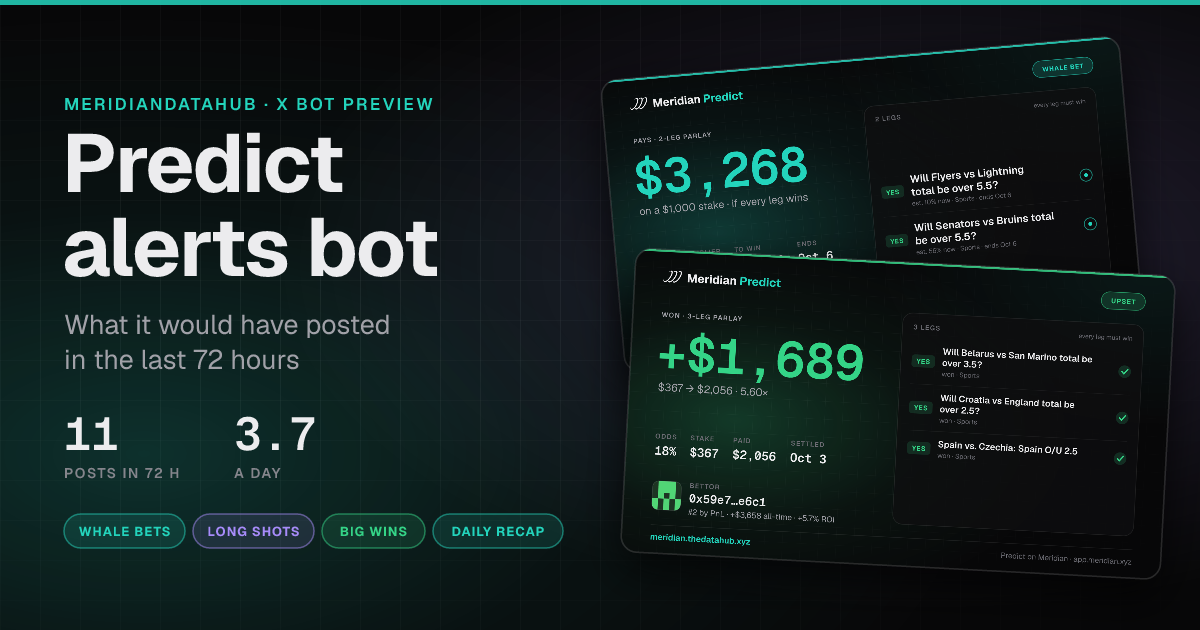
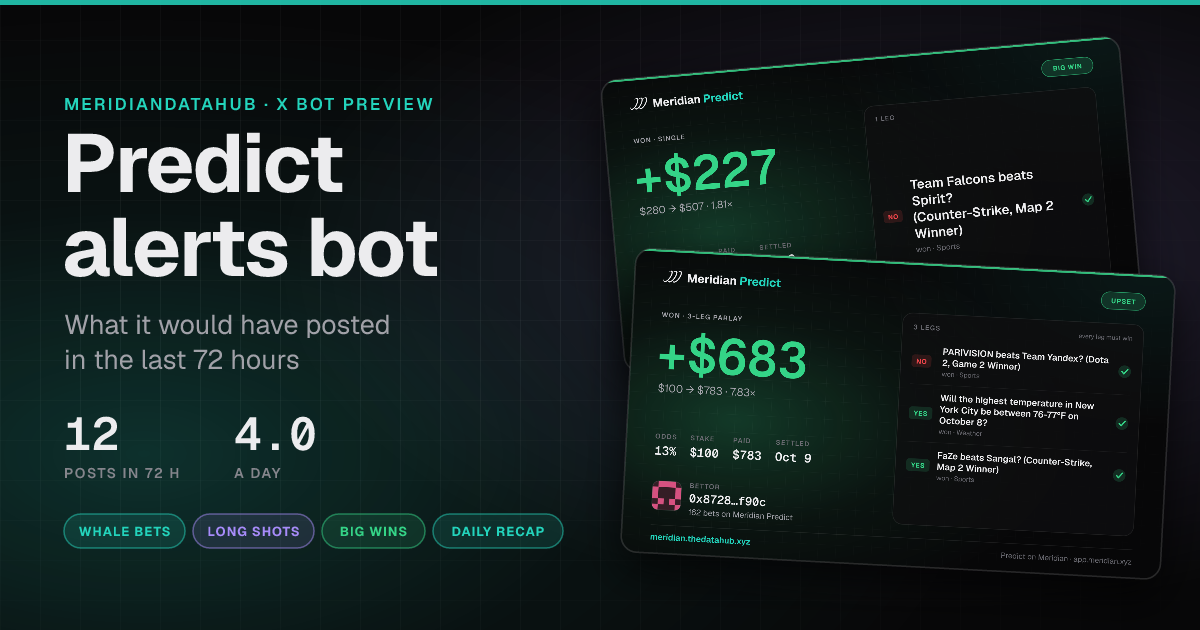
X bot preview page: the PnL-first rules
Rebuilt from a fresh 72-hour preview under the bot's new rules: a proven winner has $1,000+ all-time over 10+ decided
bets at 5%+ ROI (the luck tier no longer qualifies on its own), and a bettor's record (rank, PnL) shows only from
$1,000; smaller winners read as their bet count.

diff --git a/x-bot/index.html b/x-bot/index.html
@@ -4,23 +4,23 @@
 <meta charset="utf-8">
 <meta name="viewport" content="width=device-width, initial-scale=1">
 <title>Predict alerts bot · 72-hour preview · MeridianDataHub</title>
-<meta name="description" content="11 posts in 72 hours, replayed on live Meridian Predict data: whale bets, long shots, big wins, result replies and the daily recap, each with its card. Nothing was posted.">
+<meta name="description" content="12 posts in 72 hours, replayed on live Meridian Predict data: whale bets, long shots, big wins, result replies and the daily recap, each with its card. Nothing was posted.">
 <meta name="robots" content="noindex">
 <link rel="canonical" href="https://meridian.thedatahub.xyz/x-bot/">
 <meta property="og:type" content="website">
 <meta property="og:site_name" content="MeridianDataHub">
 <meta property="og:url" content="https://meridian.thedatahub.xyz/x-bot/">
 <meta property="og:title" content="Predict alerts bot · 72-hour preview">
-<meta property="og:description" content="11 posts in 72 hours, replayed on live Meridian Predict data: whale bets, long shots, big wins, result replies and the daily recap, each with its card. Nothing was posted.">
-<meta property="og:image" content="https://meridian.thedatahub.xyz/x-bot/cover.png?v=02d71a287f">
+<meta property="og:description" content="12 posts in 72 hours, replayed on live Meridian Predict data: whale bets, long shots, big wins, result replies and the daily recap, each with its card. Nothing was posted.">
+<meta property="og:image" content="https://meridian.thedatahub.xyz/x-bot/cover.png?v=f5f85cb6a5">
 <meta property="og:image:type" content="image/png">
 <meta property="og:image:width" content="1200">
 <meta property="og:image:height" content="630">
 <meta property="og:image:alt" content="Predict alerts bot: what it would have posted in the last 72 hours, with two of its cards">
 <meta name="twitter:card" content="summary_large_image">
 <meta name="twitter:title" content="Predict alerts bot · 72-hour preview">
-<meta name="twitter:description" content="11 posts in 72 hours, replayed on live Meridian Predict data: whale bets, long shots, big wins, result replies and the daily recap, each with its card. Nothing was posted.">
-<meta name="twitter:image" content="https://meridian.thedatahub.xyz/x-bot/cover.png?v=02d71a287f">
+<meta name="twitter:description" content="12 posts in 72 hours, replayed on live Meridian Predict data: whale bets, long shots, big wins, result replies and the daily recap, each with its card. Nothing was posted.">
+<meta name="twitter:image" content="https://meridian.thedatahub.xyz/x-bot/cover.png?v=f5f85cb6a5">
 <meta name="twitter:image:alt" content="Predict alerts bot: what it would have posted in the last 72 hours, with two of its cards">
 <meta name="color-scheme" content="dark">
 <meta name="theme-color" content="#23d4bc">
@@ -35,207 +35,204 @@
     <h1>Predict alerts bot</h1>
     <p class="lead">Every post it would have made over the last 72 hours, replayed with its default rules on live Meridian Predict data: whale bets, long shots, proven winners, big wins and cash-outs, result replies and a daily recap, each with its card. Nothing here was posted.</p>
     <ul class="stats">
-      <li><b>11</b><span>posts in 72 h</span></li>
-      <li><b>3.7</b><span>a day</span></li>
-      <li><b>≈ $1.83</b><span>on X (pay-per-use)</span></li>
-      <li><b>17</b><span>held back by the limits</span></li>
+      <li><b>12</b><span>posts in 72 h</span></li>
+      <li><b>4.0</b><span>a day</span></li>
+      <li><b>≈ $1.66</b><span>on X (pay-per-use)</span></li>
+      <li><b>0</b><span>held back by the limits</span></li>
     </ul>
   </section>
   <main class="feed" aria-label="Posts, newest first">
-<article class="post" id="post-202610061739">
+<article class="post" id="post-202610092029">
   <div class="av"><svg viewBox="0 0 40 40" aria-hidden="true"><rect width="40" height="40" rx="12" fill="var(--av-bg)"/><path d="M8 26h6l3-9 5 15 4-11 2 5h4" fill="none" stroke="var(--accent)" stroke-width="2.4" stroke-linecap="round" stroke-linejoin="round"/></svg></div>
   <div class="body">
-    <header><span class="name">Predict alerts</span><span class="bot">bot preview</span><time datetime="2026-10-06T17:39:00.369Z">Oct 6 · 17:39 UTC</time></header>
+    <header><span class="name">Predict alerts</span><span class="bot">bot preview</span><time datetime="2026-10-09T20:29:58.984Z">Oct 9 · 20:29 UTC</time></header>
+    <p class="replying">Reply to the <a href="#post-202610091801">proven winner alert of Oct 9 · 18:01 UTC</a></p>
+    <p class="text">✅ Cashed!
+
+$280 became $507 (+$227)</p>
+    <figure><img src="/x-bot/cards/01-won.png" alt="Card: the bet won on Meridian Predict." width="1600" height="900" loading="lazy" decoding="async"></figure>
+    <footer><span class="chip kind" data-kind="won">Result reply</span><span class="chip">36/280</span><span class="chip dim">score 90</span></footer>
+  </div>
+</article>
+<article class="post" id="post-202610091801">
+  <div class="av"><svg viewBox="0 0 40 40" aria-hidden="true"><rect width="40" height="40" rx="12" fill="var(--av-bg)"/><path d="M8 26h6l3-9 5 15 4-11 2 5h4" fill="none" stroke="var(--accent)" stroke-width="2.4" stroke-linecap="round" stroke-linejoin="round"/></svg></div>
+  <div class="body">
+    <header><span class="name">Predict alerts</span><span class="bot">bot preview</span><time datetime="2026-10-09T18:01:58.984Z">Oct 9 · 18:01 UTC</time></header>
+    
+    <p class="text">🎯 Sharp money on Meridian Predict
+
+0x5745…9805 · #4 by PnL · +$2,204 all-time · +7.4% ROI
+
+💰 Pays $507 if it hits (1.81×)
+NO · Team Falcons beats Spirit? (Counter-Strike, Map 2 Winner)
+$280 stake at 55%
+
+Copy the slip 👉 <a href="https://app.meridian.xyz/predict/p/0xd2983ace8d78e9a982997608278eff0c0881d4a952ca8940a27bad4ce6f0a06c?ref=BJ9Y51H9XB1L" rel="noopener">app.meridian.xyz/predict/p/0xd…</a></p>
+    <figure><img src="/x-bot/cards/02-proven.png" alt="Card: a proven winner's bet on Meridian Predict. Pays $507 if it hits, on a $280 stake at 55% odds. NO Team Falcons beats Spirit? (Counter-Strike, Map 2 Winner). Bettor 0x5745…9805." width="1600" height="900" loading="lazy" decoding="async"></figure>
+    <footer><span class="chip kind" data-kind="proven">Proven winner</span><span class="chip">247/280</span><span class="chip dim">score 112</span></footer>
+  </div>
+</article>
+<article class="post" id="post-202610090543">
+  <div class="av"><svg viewBox="0 0 40 40" aria-hidden="true"><rect width="40" height="40" rx="12" fill="var(--av-bg)"/><path d="M8 26h6l3-9 5 15 4-11 2 5h4" fill="none" stroke="var(--accent)" stroke-width="2.4" stroke-linecap="round" stroke-linejoin="round"/></svg></div>
+  <div class="body">
+    <header><span class="name">Predict alerts</span><span class="bot">bot preview</span><time datetime="2026-10-09T05:43:58.984Z">Oct 9 · 05:43 UTC</time></header>
+    
+    <p class="text">🔥 Upset! A 13% shot just paid 7.83×
+
+3-leg parlay: PARIVISION beats Team Yandex? (Dota 2, Game 2 Winner) + 2 more
+0x8728…f90c turned $100 into $783 (+$683)
+
+Make your call 👉 <a href="https://app.meridian.xyz/predict?ref=BJ9Y51H9XB1L" rel="noopener">app.meridian.xyz/predict</a></p>
+    <figure><img src="/x-bot/cards/03-bigwin.png" alt="Card: a big win on Meridian Predict. Won +$683: $100 paid $783 at 13% odds. NO PARIVISION beats Team Yandex? (Dota 2, Game 2 Winner); YES Will the highest temperature in New York City be between 76-77°F on October 8?; YES FaZe beats Sangal? (Counter-Strike, Map 2 Winner). Bettor 0x8728…f90c." width="1600" height="900" loading="lazy" decoding="async"></figure>
+    <footer><span class="chip kind" data-kind="upset">Upset</span><span class="chip">200/280</span><span class="chip dim">score 120</span></footer>
+  </div>
+</article>
+<article class="post" id="post-202610090041">
+  <div class="av"><svg viewBox="0 0 40 40" aria-hidden="true"><rect width="40" height="40" rx="12" fill="var(--av-bg)"/><path d="M8 26h6l3-9 5 15 4-11 2 5h4" fill="none" stroke="var(--accent)" stroke-width="2.4" stroke-linecap="round" stroke-linejoin="round"/></svg></div>
+  <div class="body">
+    <header><span class="name">Predict alerts</span><span class="bot">bot preview</span><time datetime="2026-10-09T00:41:58.984Z">Oct 9 · 00:41 UTC</time></header>
+    
+    <p class="text">📊 Meridian Predict · Thursday, Oct 8
+
+🎲 87 bets · $5,125 wagered
+👥 28 bettors
+
+Join in 👉 <a href="https://app.meridian.xyz/predict?ref=BJ9Y51H9XB1L" rel="noopener">app.meridian.xyz/predict</a></p>
+    <figure><img src="/x-bot/cards/04-recap.png" alt="Card: Meridian Predict on Thursday, Oct 8: 87 bets, $5,125 wagered by 28 bettors." width="1600" height="900" loading="lazy" decoding="async"></figure>
+    <footer><span class="chip kind" data-kind="recap">Daily recap</span><span class="chip">116/280</span><span class="chip dim">score 95</span></footer>
+  </div>
+</article>
+<article class="post" id="post-202610082249">
+  <div class="av"><svg viewBox="0 0 40 40" aria-hidden="true"><rect width="40" height="40" rx="12" fill="var(--av-bg)"/><path d="M8 26h6l3-9 5 15 4-11 2 5h4" fill="none" stroke="var(--accent)" stroke-width="2.4" stroke-linecap="round" stroke-linejoin="round"/></svg></div>
+  <div class="body">
+    <header><span class="name">Predict alerts</span><span class="bot">bot preview</span><time datetime="2026-10-08T22:49:58.984Z">Oct 8 · 22:49 UTC</time></header>
     
     <p class="text">🚀 Long shot on Meridian Predict
 
-💰 Pays $5,000 if it hits (23.81×)
-2-leg parlay: Will Croatia win on 2026-10-06? + 1 more
-$210 stake at 4.2%
+💰 Pays $3,367 if it hits (8.46×)
+4-leg parlay: Will Avalanche vs Flames total be over 5.5? + 3 more
+$398 stake at 12%
 
-0x090f…cd57 · 105 bets on Meridian Predict
+0x59e7…e6c1 · #8 by PnL · +$1,055 all-time · +1.6% ROI
 
-Copy the slip 👉 <a href="https://app.meridian.xyz/predict/p/0x892bde36738341342101d3412c42a1d216c6ae312a758bc52a8bc4ed0d5b6689?ref=BJ9Y51H9XB1L" rel="noopener">app.meridian.xyz/predict/p/0x8…</a></p>
-    <figure><img src="/x-bot/cards/01-longshot.png" alt="Card: a long shot on Meridian Predict. Pays $5,000 if it hits, on a $210 stake at 4.2% odds. YES Will Croatia win on 2026-10-06?; YES Will both Luxembourg and Bulgaria score?. Bettor 0x090f…cd57." width="1600" height="900" loading="lazy" decoding="async"></figure>
-    <footer><span class="chip kind" data-kind="longshot">Long shot</span><span class="chip">229/280</span><span class="chip dim">score 93</span></footer>
+Copy the slip 👉 <a href="https://app.meridian.xyz/predict/p/0xcfada6e9e2539669fa9a03e78e3dd8c5ba5bad3342d7c7b01598b532c0740a14?ref=BJ9Y51H9XB1L" rel="noopener">app.meridian.xyz/predict/p/0xc…</a></p>
+    <figure><img src="/x-bot/cards/05-longshot.png" alt="Card: a long shot on Meridian Predict. Pays $3,367 if it hits, on a $398 stake at 12% odds. YES Will Avalanche vs Flames total be over 5.5?; YES Will Canucks vs Hurricanes total be over 5.5?; YES Will Blackhawks vs Islanders total be over 5.5?; and 1 more leg. Bettor 0x59e7…e6c1." width="1600" height="900" loading="lazy" decoding="async"></figure>
+    <footer><span class="chip kind" data-kind="longshot">Long shot</span><span class="chip">251/280</span><span class="chip dim">score 101</span></footer>
   </div>
 </article>
-<article class="post" id="post-202610060041">
+<article class="post" id="post-202610082133">
   <div class="av"><svg viewBox="0 0 40 40" aria-hidden="true"><rect width="40" height="40" rx="12" fill="var(--av-bg)"/><path d="M8 26h6l3-9 5 15 4-11 2 5h4" fill="none" stroke="var(--accent)" stroke-width="2.4" stroke-linecap="round" stroke-linejoin="round"/></svg></div>
   <div class="body">
-    <header><span class="name">Predict alerts</span><span class="bot">bot preview</span><time datetime="2026-10-06T00:41:00.369Z">Oct 6 · 00:41 UTC</time></header>
-    
-    <p class="text">📊 Meridian Predict · Monday, Oct 5
-
-🎲 118 bets · $17,971 wagered
-👥 41 bettors
-🏆 Biggest win: +$3,096 (4.10×) by 0x59e7…e6c1
-
-Join in 👉 <a href="https://app.meridian.xyz/predict?ref=BJ9Y51H9XB1L" rel="noopener">app.meridian.xyz/predict</a></p>
-    <figure><img src="/x-bot/cards/02-recap.png" alt="Card: Meridian Predict on Monday, Oct 5: 118 bets, $17,971 wagered by 41 bettors." width="1600" height="900" loading="lazy" decoding="async"></figure>
-    <footer><span class="chip kind" data-kind="recap">Daily recap</span><span class="chip">164/280</span><span class="chip dim">score 95</span></footer>
-  </div>
-</article>
-<article class="post" id="post-202610052333">
-  <div class="av"><svg viewBox="0 0 40 40" aria-hidden="true"><rect width="40" height="40" rx="12" fill="var(--av-bg)"/><path d="M8 26h6l3-9 5 15 4-11 2 5h4" fill="none" stroke="var(--accent)" stroke-width="2.4" stroke-linecap="round" stroke-linejoin="round"/></svg></div>
-  <div class="body">
-    <header><span class="name">Predict alerts</span><span class="bot">bot preview</span><time datetime="2026-10-05T23:33:00.369Z">Oct 5 · 23:33 UTC</time></header>
-    
-    <p class="text">🐋 Big money just landed on Meridian Predict
-
-💰 Pays $3,268 if it hits (3.27×)
-2-leg parlay: Will Flyers vs Lightning total be over 5.5? + 1 more
-$1,000 stake at 31%
-
-0x59e7…e6c1 · #2 by PnL · +$3,658 all-time · +5.7% ROI
-
-Copy the slip 👉 <a href="https://app.meridian.xyz/predict/p/0x694653b93bdb89eef1382e96929658cd461d17e34c03e217d4e0edd932a1fd9e?ref=BJ9Y51H9XB1L" rel="noopener">app.meridian.xyz/predict/p/0x6…</a></p>
-    <figure><img src="/x-bot/cards/03-whale.png" alt="Card: a whale bet on Meridian Predict. Pays $3,268 if it hits, on a $1,000 stake at 31% odds. YES Will Flyers vs Lightning total be over 5.5?; YES Will Senators vs Bruins total be over 5.5?. Bettor 0x59e7…e6c1." width="1600" height="900" loading="lazy" decoding="async"></figure>
-    <footer><span class="chip kind" data-kind="whale">Whale bet</span><span class="chip">265/280</span><span class="chip dim">score 111</span></footer>
-  </div>
-</article>
-<article class="post" id="post-202610052307">
-  <div class="av"><svg viewBox="0 0 40 40" aria-hidden="true"><rect width="40" height="40" rx="12" fill="var(--av-bg)"/><path d="M8 26h6l3-9 5 15 4-11 2 5h4" fill="none" stroke="var(--accent)" stroke-width="2.4" stroke-linecap="round" stroke-linejoin="round"/></svg></div>
-  <div class="body">
-    <header><span class="name">Predict alerts</span><span class="bot">bot preview</span><time datetime="2026-10-05T23:07:00.369Z">Oct 5 · 23:07 UTC</time></header>
-    <p class="replying">Reply to the <a href="#post-202610051627">whale bet alert of Oct 5 · 16:27 UTC</a></p>
+    <header><span class="name">Predict alerts</span><span class="bot">bot preview</span><time datetime="2026-10-08T21:33:58.984Z">Oct 8 · 21:33 UTC</time></header>
+    <p class="replying">Reply to the <a href="#post-202610081903">proven winner alert of Oct 8 · 19:03 UTC</a></p>
     <p class="text">✅ It hit!
 
-$1,000 → $4,096 (+$3,096) · 4.10×</p>
-    <figure><img src="/x-bot/cards/04-won.png" alt="Card: the bet won on Meridian Predict." width="1600" height="900" loading="lazy" decoding="async"></figure>
-    <footer><span class="chip kind" data-kind="won">Result reply</span><span class="chip">46/280</span><span class="chip dim">score 90</span></footer>
+$300 → $405 (+$105) · 1.35×</p>
+    <figure><img src="/x-bot/cards/06-won.png" alt="Card: the bet won on Meridian Predict." width="1600" height="900" loading="lazy" decoding="async"></figure>
+    <footer><span class="chip kind" data-kind="won">Result reply</span><span class="chip">40/280</span><span class="chip dim">score 90</span></footer>
   </div>
 </article>
-<article class="post" id="post-202610051627">
+<article class="post" id="post-202610081903">
   <div class="av"><svg viewBox="0 0 40 40" aria-hidden="true"><rect width="40" height="40" rx="12" fill="var(--av-bg)"/><path d="M8 26h6l3-9 5 15 4-11 2 5h4" fill="none" stroke="var(--accent)" stroke-width="2.4" stroke-linecap="round" stroke-linejoin="round"/></svg></div>
   <div class="body">
-    <header><span class="name">Predict alerts</span><span class="bot">bot preview</span><time datetime="2026-10-05T16:27:00.369Z">Oct 5 · 16:27 UTC</time></header>
+    <header><span class="name">Predict alerts</span><span class="bot">bot preview</span><time datetime="2026-10-08T19:03:58.984Z">Oct 8 · 19:03 UTC</time></header>
     
-    <p class="text">🐋 Whale bet on Meridian Predict
+    <p class="text">🎯 One of Meridian Predict's best just bet
 
-💰 Pays $4,096 if it hits (4.10×)
-4-leg parlay: Will both Italy and Türkiye score? + 3 more
-$1,000 stake at 24%
+0x5745…9805 · #4 by PnL · +$2,204 all-time · +7.4% ROI
 
-0x59e7…e6c1 · #2 by PnL · +$3,658 all-time · +5.7% ROI
+💰 Pays $405 if it hits (1.35×)
+YES · FaZe beats Sangal? (Counter-Strike, Roman Imperium Cup Playoffs)
+$300 stake at 74%
 
-Copy the slip 👉 <a href="https://app.meridian.xyz/predict/p/0x261a62e76e4d7ec48c7f19d9b64a8dddf88f2de3057bf410600ede51ad011ef2?ref=BJ9Y51H9XB1L" rel="noopener">app.meridian.xyz/predict/p/0x2…</a></p>
-    <figure><img src="/x-bot/cards/05-whale.png" alt="Card: a whale bet on Meridian Predict. Pays $4,096 if it hits, on a $1,000 stake at 24% odds. YES Will both Italy and Türkiye score?; YES Will both France and Belgium score?; YES Will France vs Belgium total be over 2.5?; and 1 more leg. Bettor 0x59e7…e6c1." width="1600" height="900" loading="lazy" decoding="async"></figure>
-    <footer><span class="chip kind" data-kind="whale">Whale bet</span><span class="chip">244/280</span><span class="chip dim">score 111</span></footer>
+Copy the slip 👉 <a href="https://app.meridian.xyz/predict/p/0x072db8276aba512e223c448e70965c47b82b038df0cd23bea306515889a61a03?ref=BJ9Y51H9XB1L" rel="noopener">app.meridian.xyz/predict/p/0x0…</a></p>
+    <figure><img src="/x-bot/cards/07-proven.png" alt="Card: a proven winner's bet on Meridian Predict. Pays $405 if it hits, on a $300 stake at 74% odds. YES FaZe beats Sangal? (Counter-Strike, Roman Imperium Cup Playoffs). Bettor 0x5745…9805." width="1600" height="900" loading="lazy" decoding="async"></figure>
+    <footer><span class="chip kind" data-kind="proven">Proven winner</span><span class="chip">263/280</span><span class="chip dim">score 112</span></footer>
   </div>
 </article>
-<article class="post" id="post-202610042307">
+<article class="post" id="post-202610072139">
   <div class="av"><svg viewBox="0 0 40 40" aria-hidden="true"><rect width="40" height="40" rx="12" fill="var(--av-bg)"/><path d="M8 26h6l3-9 5 15 4-11 2 5h4" fill="none" stroke="var(--accent)" stroke-width="2.4" stroke-linecap="round" stroke-linejoin="round"/></svg></div>
   <div class="body">
-    <header><span class="name">Predict alerts</span><span class="bot">bot preview</span><time datetime="2026-10-04T23:07:00.369Z">Oct 4 · 23:07 UTC</time></header>
+    <header><span class="name">Predict alerts</span><span class="bot">bot preview</span><time datetime="2026-10-07T21:39:58.984Z">Oct 7 · 21:39 UTC</time></header>
     
     <p class="text">💰 Big win on Meridian Predict
 
-5-leg parlay: Will Netherlands vs Serbia total be over 2.5? + 4 more
-0x59e7…e6c1 turned $617 into $1,989 (+$1,372)
+2-leg parlay: Will total games be over 2.5? + 1 more
+0x5745…9805 turned $221 into $760 (+$539)
 
 Make your call 👉 <a href="https://app.meridian.xyz/predict?ref=BJ9Y51H9XB1L" rel="noopener">app.meridian.xyz/predict</a></p>
-    <figure><img src="/x-bot/cards/06-bigwin.png" alt="Card: a big win on Meridian Predict. Won +$1,372: $617 paid $1,989 at 31% odds. YES Will Netherlands vs Serbia total be over 2.5?; YES Republic of Ireland vs. Israel: Republic of Ireland O/U 0.5; YES Portugal vs. Norway: Portugal O/U 1.5; and 2 more legs. Bettor 0x59e7…e6c1." width="1600" height="900" loading="lazy" decoding="async"></figure>
-    <footer><span class="chip kind" data-kind="bigwin">Big win</span><span class="chip">190/280</span><span class="chip dim">score 114</span></footer>
+    <figure><img src="/x-bot/cards/08-bigwin.png" alt="Card: a big win on Meridian Predict. Won +$539: $221 paid $760 at 29% odds. YES Will total games be over 2.5?; YES PARIVISION beats Natus Vincere? (Counter-Strike, Map 2 Winner). Bettor 0x5745…9805." width="1600" height="900" loading="lazy" decoding="async"></figure>
+    <footer><span class="chip kind" data-kind="bigwin">Big win</span><span class="chip">170/280</span><span class="chip dim">score 108</span></footer>
   </div>
 </article>
-<article class="post" id="post-202610042109">
+<article class="post" id="post-202610071845">
   <div class="av"><svg viewBox="0 0 40 40" aria-hidden="true"><rect width="40" height="40" rx="12" fill="var(--av-bg)"/><path d="M8 26h6l3-9 5 15 4-11 2 5h4" fill="none" stroke="var(--accent)" stroke-width="2.4" stroke-linecap="round" stroke-linejoin="round"/></svg></div>
   <div class="body">
-    <header><span class="name">Predict alerts</span><span class="bot">bot preview</span><time datetime="2026-10-04T21:09:00.369Z">Oct 4 · 21:09 UTC</time></header>
-    <p class="replying">Reply to the <a href="#post-202610041939">long shot alert of Oct 4 · 19:39 UTC</a></p>
-    <p class="text">✅ The picks won, but 0x21a6…1565 had sold the tokens before the result: $1,372 for its 3 bets on these picks.</p>
-    
-    <footer><span class="chip kind" data-kind="won">Result reply</span><span class="chip">111/280</span><span class="chip dim">score 90</span></footer>
+    <header><span class="name">Predict alerts</span><span class="bot">bot preview</span><time datetime="2026-10-07T18:45:58.984Z">Oct 7 · 18:45 UTC</time></header>
+    <p class="replying">Reply to the <a href="#post-202610071641">proven winner alert of Oct 7 · 16:41 UTC</a></p>
+    <p class="text">✅ Cashed!
+
+$250 became $592 (+$342)</p>
+    <figure><img src="/x-bot/cards/09-won.png" alt="Card: the bet won on Meridian Predict." width="1600" height="900" loading="lazy" decoding="async"></figure>
+    <footer><span class="chip kind" data-kind="won">Result reply</span><span class="chip">36/280</span><span class="chip dim">score 90</span></footer>
   </div>
 </article>
-<article class="post" id="post-202610041939">
+<article class="post" id="post-202610071641">
   <div class="av"><svg viewBox="0 0 40 40" aria-hidden="true"><rect width="40" height="40" rx="12" fill="var(--av-bg)"/><path d="M8 26h6l3-9 5 15 4-11 2 5h4" fill="none" stroke="var(--accent)" stroke-width="2.4" stroke-linecap="round" stroke-linejoin="round"/></svg></div>
   <div class="body">
-    <header><span class="name">Predict alerts</span><span class="bot">bot preview</span><time datetime="2026-10-04T19:39:00.369Z">Oct 4 · 19:39 UTC</time></header>
+    <header><span class="name">Predict alerts</span><span class="bot">bot preview</span><time datetime="2026-10-07T16:41:58.984Z">Oct 7 · 16:41 UTC</time></header>
     
-    <p class="text">🚀 A 7.0% shot on Meridian Predict
+    <p class="text">🎯 Sharp money on Meridian Predict
 
-💰 Pays $3,571 if it hits (14.29×)
-YES · Rams beats Eagles?
-$250 stake
+0x5745…9805 · #4 by PnL · +$2,204 all-time · +7.4% ROI
 
-0x21a6…1565 · #7 by PnL · +$1,509 all-time · 70% win rate
+💰 Pays $592 if it hits (2.37×)
+YES · PARIVISION beats Natus Vincere? (Counter-Strike, ESL Pro League Group Stage)
+$250 stake at 42%
 
-Copy the slip 👉 <a href="https://app.meridian.xyz/predict/p/0x317e314fde023a43073ffa6a559403b4b2bebcb38f244f7d226d4806a91edc70?ref=BJ9Y51H9XB1L" rel="noopener">app.meridian.xyz/predict/p/0x3…</a></p>
-    <figure><img src="/x-bot/cards/08-longshot.png" alt="Card: a long shot on Meridian Predict. Pays $3,571 if it hits, on a $250 stake at 7.0% odds. YES Rams beats Eagles?. Bettor 0x21a6…1565." width="1600" height="900" loading="lazy" decoding="async"></figure>
-    <footer><span class="chip kind" data-kind="longshot">Long shot</span><span class="chip">208/280</span><span class="chip dim">score 99</span></footer>
+Copy the slip 👉 <a href="https://app.meridian.xyz/predict/p/0x469359a5045595711ecd357b3684318a95a9751984ccbb37be684fe7823d68cc?ref=BJ9Y51H9XB1L" rel="noopener">app.meridian.xyz/predict/p/0x4…</a></p>
+    <figure><img src="/x-bot/cards/10-proven.png" alt="Card: a proven winner's bet on Meridian Predict. Pays $592 if it hits, on a $250 stake at 42% odds. YES PARIVISION beats Natus Vincere? (Counter-Strike, ESL Pro League Group Stage). Bettor 0x5745…9805." width="1600" height="900" loading="lazy" decoding="async"></figure>
+    <footer><span class="chip kind" data-kind="proven">Proven winner</span><span class="chip">267/280</span><span class="chip dim">score 112</span></footer>
   </div>
 </article>
-<article class="post" id="post-202610041725">
+<article class="post" id="post-202610070201">
   <div class="av"><svg viewBox="0 0 40 40" aria-hidden="true"><rect width="40" height="40" rx="12" fill="var(--av-bg)"/><path d="M8 26h6l3-9 5 15 4-11 2 5h4" fill="none" stroke="var(--accent)" stroke-width="2.4" stroke-linecap="round" stroke-linejoin="round"/></svg></div>
   <div class="body">
-    <header><span class="name">Predict alerts</span><span class="bot">bot preview</span><time datetime="2026-10-04T17:25:00.369Z">Oct 4 · 17:25 UTC</time></header>
-    
-    <p class="text">💰 $300 → $1,078 on Meridian Predict
+    <header><span class="name">Predict alerts</span><span class="bot">bot preview</span><time datetime="2026-10-07T02:01:58.984Z">Oct 7 · 02:01 UTC</time></header>
+    <p class="replying">Reply to the <a href="#post-202610062139">proven winner alert of Oct 6 · 21:39 UTC</a></p>
+    <p class="text">✅ Cashed!
 
-2-leg parlay: Will Azerbaijan win on 2026-10-04? + 1 more
-0x069a…d505 turned $300 into $1,078 (+$778)
-
-Make your call 👉 <a href="https://app.meridian.xyz/predict?ref=BJ9Y51H9XB1L" rel="noopener">app.meridian.xyz/predict</a></p>
-    <figure><img src="/x-bot/cards/09-bigwin.png" alt="Card: a big win on Meridian Predict. Won +$778: $300 paid $1,078 at 28% odds. YES Will Azerbaijan win on 2026-10-04?; YES Will Scotland win on 2026-10-03?. Bettor 0x069a…d505." width="1600" height="900" loading="lazy" decoding="async"></figure>
-    <footer><span class="chip kind" data-kind="bigwin">Big win</span><span class="chip">184/280</span><span class="chip dim">score 110</span></footer>
+$293 became $497 (+$204)</p>
+    <figure><img src="/x-bot/cards/11-won.png" alt="Card: the bet won on Meridian Predict." width="1600" height="900" loading="lazy" decoding="async"></figure>
+    <footer><span class="chip kind" data-kind="won">Result reply</span><span class="chip">36/280</span><span class="chip dim">score 90</span></footer>
   </div>
 </article>
-<article class="post" id="post-202610040301">
+<article class="post" id="post-202610062139">
   <div class="av"><svg viewBox="0 0 40 40" aria-hidden="true"><rect width="40" height="40" rx="12" fill="var(--av-bg)"/><path d="M8 26h6l3-9 5 15 4-11 2 5h4" fill="none" stroke="var(--accent)" stroke-width="2.4" stroke-linecap="round" stroke-linejoin="round"/></svg></div>
   <div class="body">
-    <header><span class="name">Predict alerts</span><span class="bot">bot preview</span><time datetime="2026-10-04T03:01:00.369Z">Oct 4 · 03:01 UTC</time></header>
+    <header><span class="name">Predict alerts</span><span class="bot">bot preview</span><time datetime="2026-10-06T21:39:58.984Z">Oct 6 · 21:39 UTC</time></header>
     
-    <p class="text">💰 $470 → $1,999 on Meridian Predict
+    <p class="text">🎯 A proven winner just placed a bet
 
-2-leg parlay: North Macedonia vs. Scotland: Scotland O/U 1.5 + 1 more
-0x59e7…e6c1 turned $470 into $1,999 (+$1,529)
+0x5745…9805 · #4 by PnL · +$2,204 all-time · +7.4% ROI
 
-Make your call 👉 <a href="https://app.meridian.xyz/predict?ref=BJ9Y51H9XB1L" rel="noopener">app.meridian.xyz/predict</a></p>
-    <figure><img src="/x-bot/cards/10-bigwin.png" alt="Card: a big win on Meridian Predict. Won +$1,529: $470 paid $1,999 at 24% odds. YES North Macedonia vs. Scotland: Scotland O/U 1.5; YES Switzerland vs. Slovenia: Slovenia O/U 0.5. Bettor 0x59e7…e6c1." width="1600" height="900" loading="lazy" decoding="async"></figure>
-    <footer><span class="chip kind" data-kind="bigwin">Big win</span><span class="chip">198/280</span><span class="chip dim">score 119</span></footer>
-  </div>
-</article>
-<article class="post" id="post-202610032301">
-  <div class="av"><svg viewBox="0 0 40 40" aria-hidden="true"><rect width="40" height="40" rx="12" fill="var(--av-bg)"/><path d="M8 26h6l3-9 5 15 4-11 2 5h4" fill="none" stroke="var(--accent)" stroke-width="2.4" stroke-linecap="round" stroke-linejoin="round"/></svg></div>
-  <div class="body">
-    <header><span class="name">Predict alerts</span><span class="bot">bot preview</span><time datetime="2026-10-03T23:01:00.369Z">Oct 3 · 23:01 UTC</time></header>
-    
-    <p class="text">🔥 Upset! An 18% shot just paid 5.60×
+💰 Pays $497 if it hits (1.70×)
+YES · Team Falcons beats Natus Vincere? (Counter-Strike, ESL Pro League Group Stage)
+$293 stake at 59%
 
-3-leg parlay: Will Belarus vs San Marino total be over 3.5? + 2 more
-0x59e7…e6c1 turned $367 into $2,056 (+$1,689)
-
-Make your call 👉 <a href="https://app.meridian.xyz/predict?ref=BJ9Y51H9XB1L" rel="noopener">app.meridian.xyz/predict</a></p>
-    <figure><img src="/x-bot/cards/11-bigwin.png" alt="Card: a big win on Meridian Predict. Won +$1,689: $367 paid $2,056 at 18% odds. YES Will Belarus vs San Marino total be over 3.5?; YES Will Croatia vs England total be over 2.5?; YES Spain vs. Czechia: Spain O/U 2.5. Bettor 0x59e7…e6c1." width="1600" height="900" loading="lazy" decoding="async"></figure>
-    <footer><span class="chip kind" data-kind="upset">Upset</span><span class="chip">197/280</span><span class="chip dim">score 125</span></footer>
+Copy the slip 👉 <a href="https://app.meridian.xyz/predict/p/0x69afce62771f9517225e02104b38b02c29931451e8e30c607a13ef082e963888?ref=BJ9Y51H9XB1L" rel="noopener">app.meridian.xyz/predict/p/0x6…</a></p>
+    <figure><img src="/x-bot/cards/12-proven.png" alt="Card: a proven winner's bet on Meridian Predict. Pays $497 if it hits, on a $293 stake at 59% odds. YES Team Falcons beats Natus Vincere? (Counter-Strike, ESL Pro League Group Stage). Bettor 0x5745…9805." width="1600" height="900" loading="lazy" decoding="async"></figure>
+    <footer><span class="chip kind" data-kind="proven">Proven winner</span><span class="chip">271/280</span><span class="chip dim">score 112</span></footer>
   </div>
 </article>
   </main>
   <details>
-    <summary>Held back by the limits <span>(17)</span></summary>
+    <summary>Held back by the limits <span>(0)</span></summary>
     <ul class="held">
-<li><span class="chip kind" data-kind="longshot">Long shot</span><time datetime="2026-10-06T08:51:17.000Z">Oct 6 · 08:51 UTC</time><span class="dim">score 105</span><p>🚀 Long shot on Meridian Predict · 💰 Pays $4,945 if it hits (6.91×) · 5-leg parlay: Novak Djokovic beats Alex de Minaur? (China Open) + 4 more</p></li>
-<li><span class="chip kind" data-kind="whale">Whale bet</span><time datetime="2026-10-06T08:46:17.000Z">Oct 6 · 08:46 UTC</time><span class="dim">score 113</span><p>🐋 Whale bet on Meridian Predict · 💰 Pays $4,896 if it hits (3.83×) · 2-leg parlay: Will England vs Czechia total be over 3.5? + 1 more</p></li>
-<li><span class="chip kind" data-kind="whale">Whale bet</span><time datetime="2026-10-05T23:12:44.000Z">Oct 5 · 23:12 UTC</time><span class="dim">score 111</span><p>🐋 Whale bet on Meridian Predict · 💰 Pays $2,572 if it hits (2.57×) · 2-leg parlay: Will Sharks vs Stars total be over 5.5? + 1 more</p></li>
-<li><span class="chip kind" data-kind="longshot">Long shot</span><time datetime="2026-10-05T19:58:34.000Z">Oct 5 · 19:58 UTC</time><span class="dim">score 103</span><p>🚀 A 12% shot on Meridian Predict · 💰 Pays $4,370 if it hits (8.03×) · 3-leg parlay: Will Sharks vs Stars total be over 5.5? + 2 more</p></li>
-<li><span class="chip kind" data-kind="longshot">Long shot</span><time datetime="2026-10-05T17:05:13.000Z">Oct 5 · 17:05 UTC</time><span class="dim">score 102</span><p>🚀 A 16% shot on Meridian Predict · 💰 Pays $3,116 if it hits (6.23×) · 3-leg parlay: Will France vs Belgium total be over 2.5? + 2 more</p></li>
-<li><span class="chip kind" data-kind="longshot">Long shot</span><time datetime="2026-10-04T23:47:11.000Z">Oct 4 · 23:47 UTC</time><span class="dim">score 100</span><p>🚀 A 20% shot on Meridian Predict · 💰 Pays $2,026 if it hits (5.06×) · 3-leg parlay: Will Flames vs Kraken total be over 5.5? + 2 more</p></li>
-<li><span class="chip kind" data-kind="longshot">Long shot</span><time datetime="2026-10-04T20:22:10.000Z">Oct 4 · 20:22 UTC</time><span class="dim">score 97</span><p>🚀 Long shot on Meridian Predict · 💰 Pays $1,311 if it hits (5.24×) · 3-leg parlay: Lions beats Panthers? + 2 more</p></li>
-<li><span class="chip kind" data-kind="longshot">Long shot</span><time datetime="2026-10-04T14:28:29.000Z">Oct 4 · 14:28 UTC</time><span class="dim">score 99</span><p>🚀 A 16% shot on Meridian Predict · 💰 Pays $2,048 if it hits (6.21×) · 3-leg parlay: Greece vs. Germany: Germany O/U 1.5 + 2 more</p></li>
-<li><span class="chip kind" data-kind="longshot">Long shot</span><time datetime="2026-10-04T14:24:59.000Z">Oct 4 · 14:24 UTC</time><span class="dim">score 99</span><p>🚀 A 15% shot on Meridian Predict · 💰 Pays $2,022 if it hits (6.52×) · 3-leg parlay: Will Republic of Ireland vs Israel total be over 2.5? + 2 more</p></li>
-<li><span class="chip kind" data-kind="longshot">Long shot</span><time datetime="2026-10-04T14:22:09.000Z">Oct 4 · 14:22 UTC</time><span class="dim">score 102</span><p>🚀 A 12% shot on Meridian Predict · 💰 Pays $4,001 if it hits (8.51×) · 3-leg parlay: Portugal vs. Norway: Portugal O/U 1.5 + 2 more</p></li>
-<li><span class="chip kind" data-kind="whale">Whale bet</span><time datetime="2026-10-04T14:18:59.000Z">Oct 4 · 14:18 UTC</time><span class="dim">score 111</span><p>🐋 Whale bet on Meridian Predict · 💰 Pays $2,066 if it hits (1.88×) · 2-leg parlay: Will Netherlands vs Serbia total be over 2.5? + 1 more</p></li>
-<li><span class="chip kind" data-kind="bigwin">Big win</span><time datetime="2026-10-04T04:51:43.000Z">Oct 4 · 04:51 UTC</time><span class="dim">score 114</span><p>💰 Big win on Meridian Predict · 2-leg parlay: Will Kings vs Sharks total be over 5.5? + 1 more · 0x59e7…e6c1 turned $600 into $1,969 (+$1,369)</p></li>
-<li><span class="chip kind" data-kind="bigwin">Big win</span><time datetime="2026-10-04T04:09:50.000Z">Oct 4 · 04:09 UTC</time><span class="dim">score 114</span><p>💰 Big win on Meridian Predict · 2-leg parlay: Will Blues vs Avalanche total be over 6.5? + 1 more · 0x59e7…e6c1 turned $570 into $2,019 (+$1,449)</p></li>
-<li><span class="chip kind" data-kind="longshot">Long shot</span><time datetime="2026-10-03T23:19:57.000Z">Oct 3 · 23:19 UTC</time><span class="dim">score 103</span><p>🚀 Long shot on Meridian Predict · 💰 Pays $3,023 if it hits (5.60×) · 3-leg parlay: Will Blues vs Avalanche total be over 6.5? + 2 more</p></li>
-<li><span class="chip kind" data-kind="longshot">Long shot</span><time datetime="2026-10-03T23:18:17.000Z">Oct 3 · 23:18 UTC</time><span class="dim">score 101</span><p>🚀 A 14% shot on Meridian Predict · 💰 Pays $3,019 if it hits (7.10×) · 3-leg parlay: Will Bruins vs Wild total be over 6.5? + 2 more</p></li>
-<li><span class="chip kind" data-kind="longshot">Long shot</span><time datetime="2026-10-03T23:00:47.000Z">Oct 3 · 23:00 UTC</time><span class="dim">score 101</span><p>🚀 A 9.7% shot on Meridian Predict · 💰 Pays $3,719 if it hits (10.33×) · 4-leg parlay: Will Kraken vs Oilers total be over 6.5? + 3 more</p></li>
-<li><span class="chip kind" data-kind="bigwin">Big win</span><time datetime="2026-10-03T22:59:16.000Z">Oct 3 · 22:59 UTC</time><span class="dim">score 109</span><p>💰 Big win on Meridian Predict · 2-leg parlay: Will Croatia vs England total be over 2.5? + 1 more · 0x59e7…e6c1 turned $425 into $1,001 (+$576)</p></li>
+
     </ul>
   </details>
-  <p class="note">Built Oct 6, 2026 from the Predict API and the <a href="https://meridian.thedatahub.xyz/">MeridianDataHub</a> snapshot. Times are when the bot would have posted (UTC); the cards are the 1600 × 900 images it attaches. Wallets are shown as their on-chain addresses, shortened.</p>
+  <p class="note">Built Oct 9, 2026 from the Predict API and the <a href="https://meridian.thedatahub.xyz/">MeridianDataHub</a> snapshot. Times are when the bot would have posted (UTC); the cards are the 1600 × 900 images it attaches. Wallets are shown as their on-chain addresses, shortened.</p>
 </div>
 </body>
 </html>
